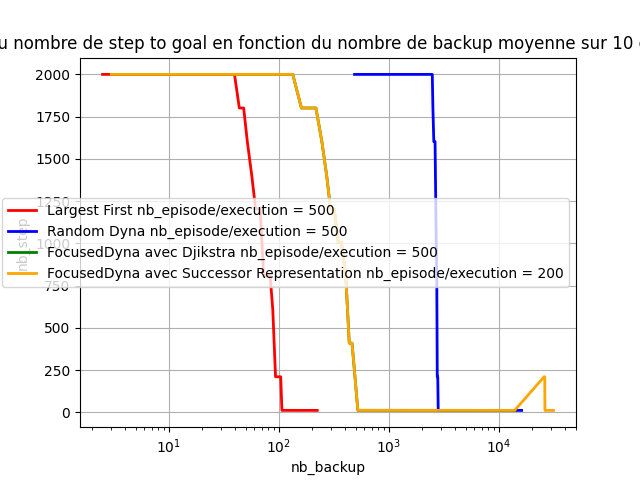
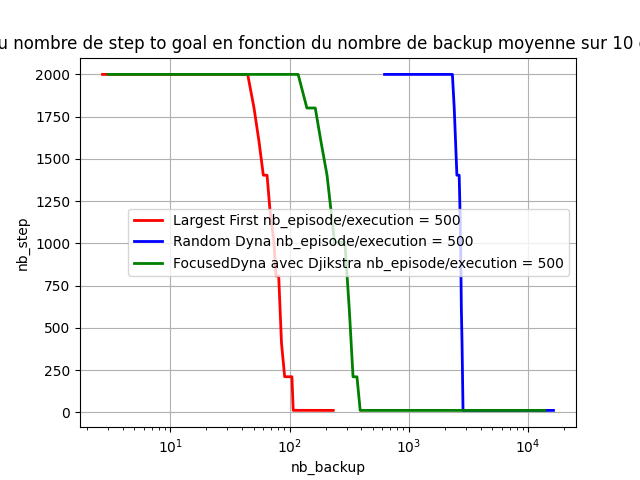
switch lines for better visualisation

diff --git a/src/fig-8.py b/src/fig-8.py
@@ -93,10 +93,9 @@ plt.plot(moyenne_par_indice(all_backups_lg), moyenne_par_indice(all_steps_lg), c
 
 plt.plot(moyenne_par_indice(all_backups_rd), moyenne_par_indice(all_steps_rd) ,color='blue', linewidth=2, label = f"Random Dyna nb_episode/execution = {RDyna.episode}")
 
+plt.plot(moyenne_par_indice(all_backups_srfd), moyenne_par_indice(all_steps_srfd), color='orange', linewidth=2, label = f"FocusedDyna avec Successor Representation nb_episode/execution = {SR.episode}")
+
 plt.plot(moyenne_par_indice(all_backups_dfd), moyenne_par_indice(all_steps_dfd), color='green', linewidth=2, label = f"FocusedDyna avec Djikstra nb_episode/execution = {Djikstra.episode}")
-
-
-#plt.plot(moyenne_par_indice(all_backups_srfd), moyenne_par_indice(all_steps_srfd), color='orange', linewidth=2, label = f"FocusedDyna avec Successor Representation nb_episode/execution = {SR.episode}")
 
 
 

diff --git a/src/fig-10.py b/src/fig-10.py
@@ -93,10 +93,9 @@ plt.plot(moyenne_par_indice(all_backups_lg), moyenne_par_indice(all_steps_lg), c
 
 plt.plot(moyenne_par_indice(all_backups_rd), moyenne_par_indice(all_steps_rd) ,color='blue', linewidth=2, label = f"Random Dyna nb_episode/execution = {RDyna.episode}")
 
-plt.plot(moyenne_par_indice(all_backups_dfd), moyenne_par_indice(all_steps_dfd), color='green', linewidth=2, label = f"FocusedDyna avec Djikstra nb_episode/execution = {Djikstra.episode}")
-
-
 plt.plot(moyenne_par_indice(all_backups_srfd), moyenne_par_indice(all_steps_srfd), color='orange', linewidth=2, label = f"FocusedDyna avec Successor Representation nb_episode/execution = {SR.episode}")
+
+plt.plot(moyenne_par_indice(all_backups_dfd), moyenne_par_indice(all_steps_dfd), color='green', linewidth=2, label = f"FocusedDyna avec Djikstra nb_episode/execution = {Djikstra.episode}")
 
 
 

diff --git a/src/fig-supplementary.py b/src/fig-supplementary.py
@@ -93,10 +93,9 @@ plt.plot(moyenne_par_indice(all_backups_lg), moyenne_par_indice(all_steps_lg), c
 
 plt.plot(moyenne_par_indice(all_backups_rd), moyenne_par_indice(all_steps_rd) ,color='blue', linewidth=2, label = f"Random Dyna nb_episode/execution = {RDyna.episode}")
 
-plt.plot(moyenne_par_indice(all_backups_dfd), moyenne_par_indice(all_steps_dfd), color='green', linewidth=2, label = f"FocusedDyna avec Djikstra nb_episode/execution = {Djikstra.episode}")
-
-
 plt.plot(moyenne_par_indice(all_backups_srfd), moyenne_par_indice(all_steps_srfd), color='orange', linewidth=2, label = f"FocusedDyna avec Successor Representation nb_episode/execution = {SR.episode}")
+
+plt.plot(moyenne_par_indice(all_backups_dfd), moyenne_par_indice(all_steps_dfd), color='green', linewidth=2, label = f"FocusedDyna avec Djikstra nb_episode/execution = {Djikstra.episode}")
 
 
 
